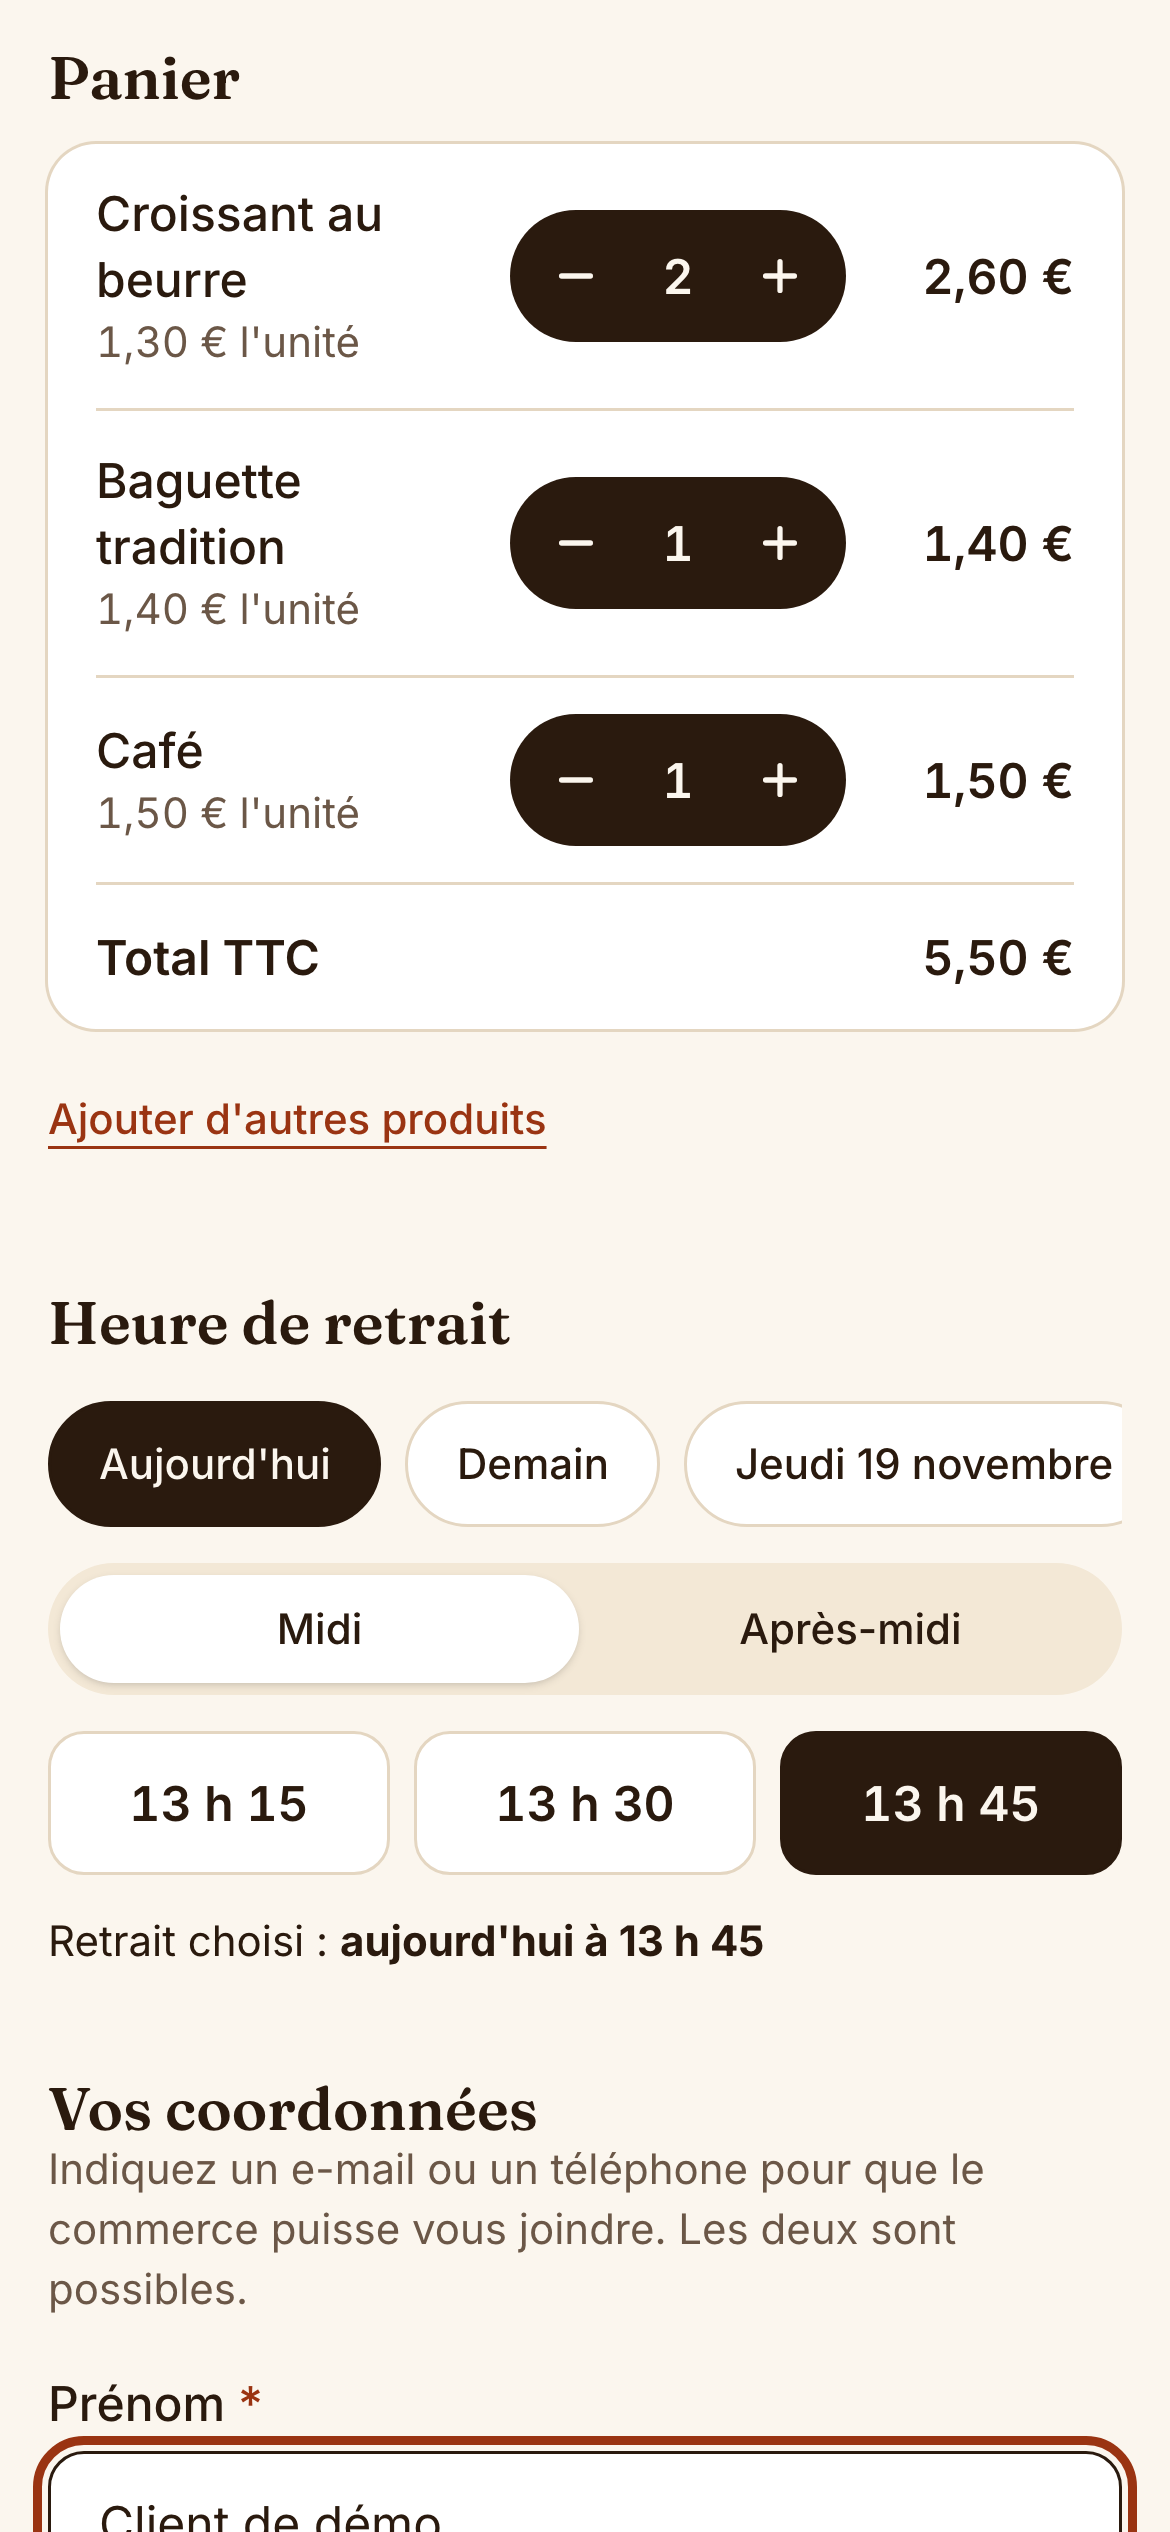
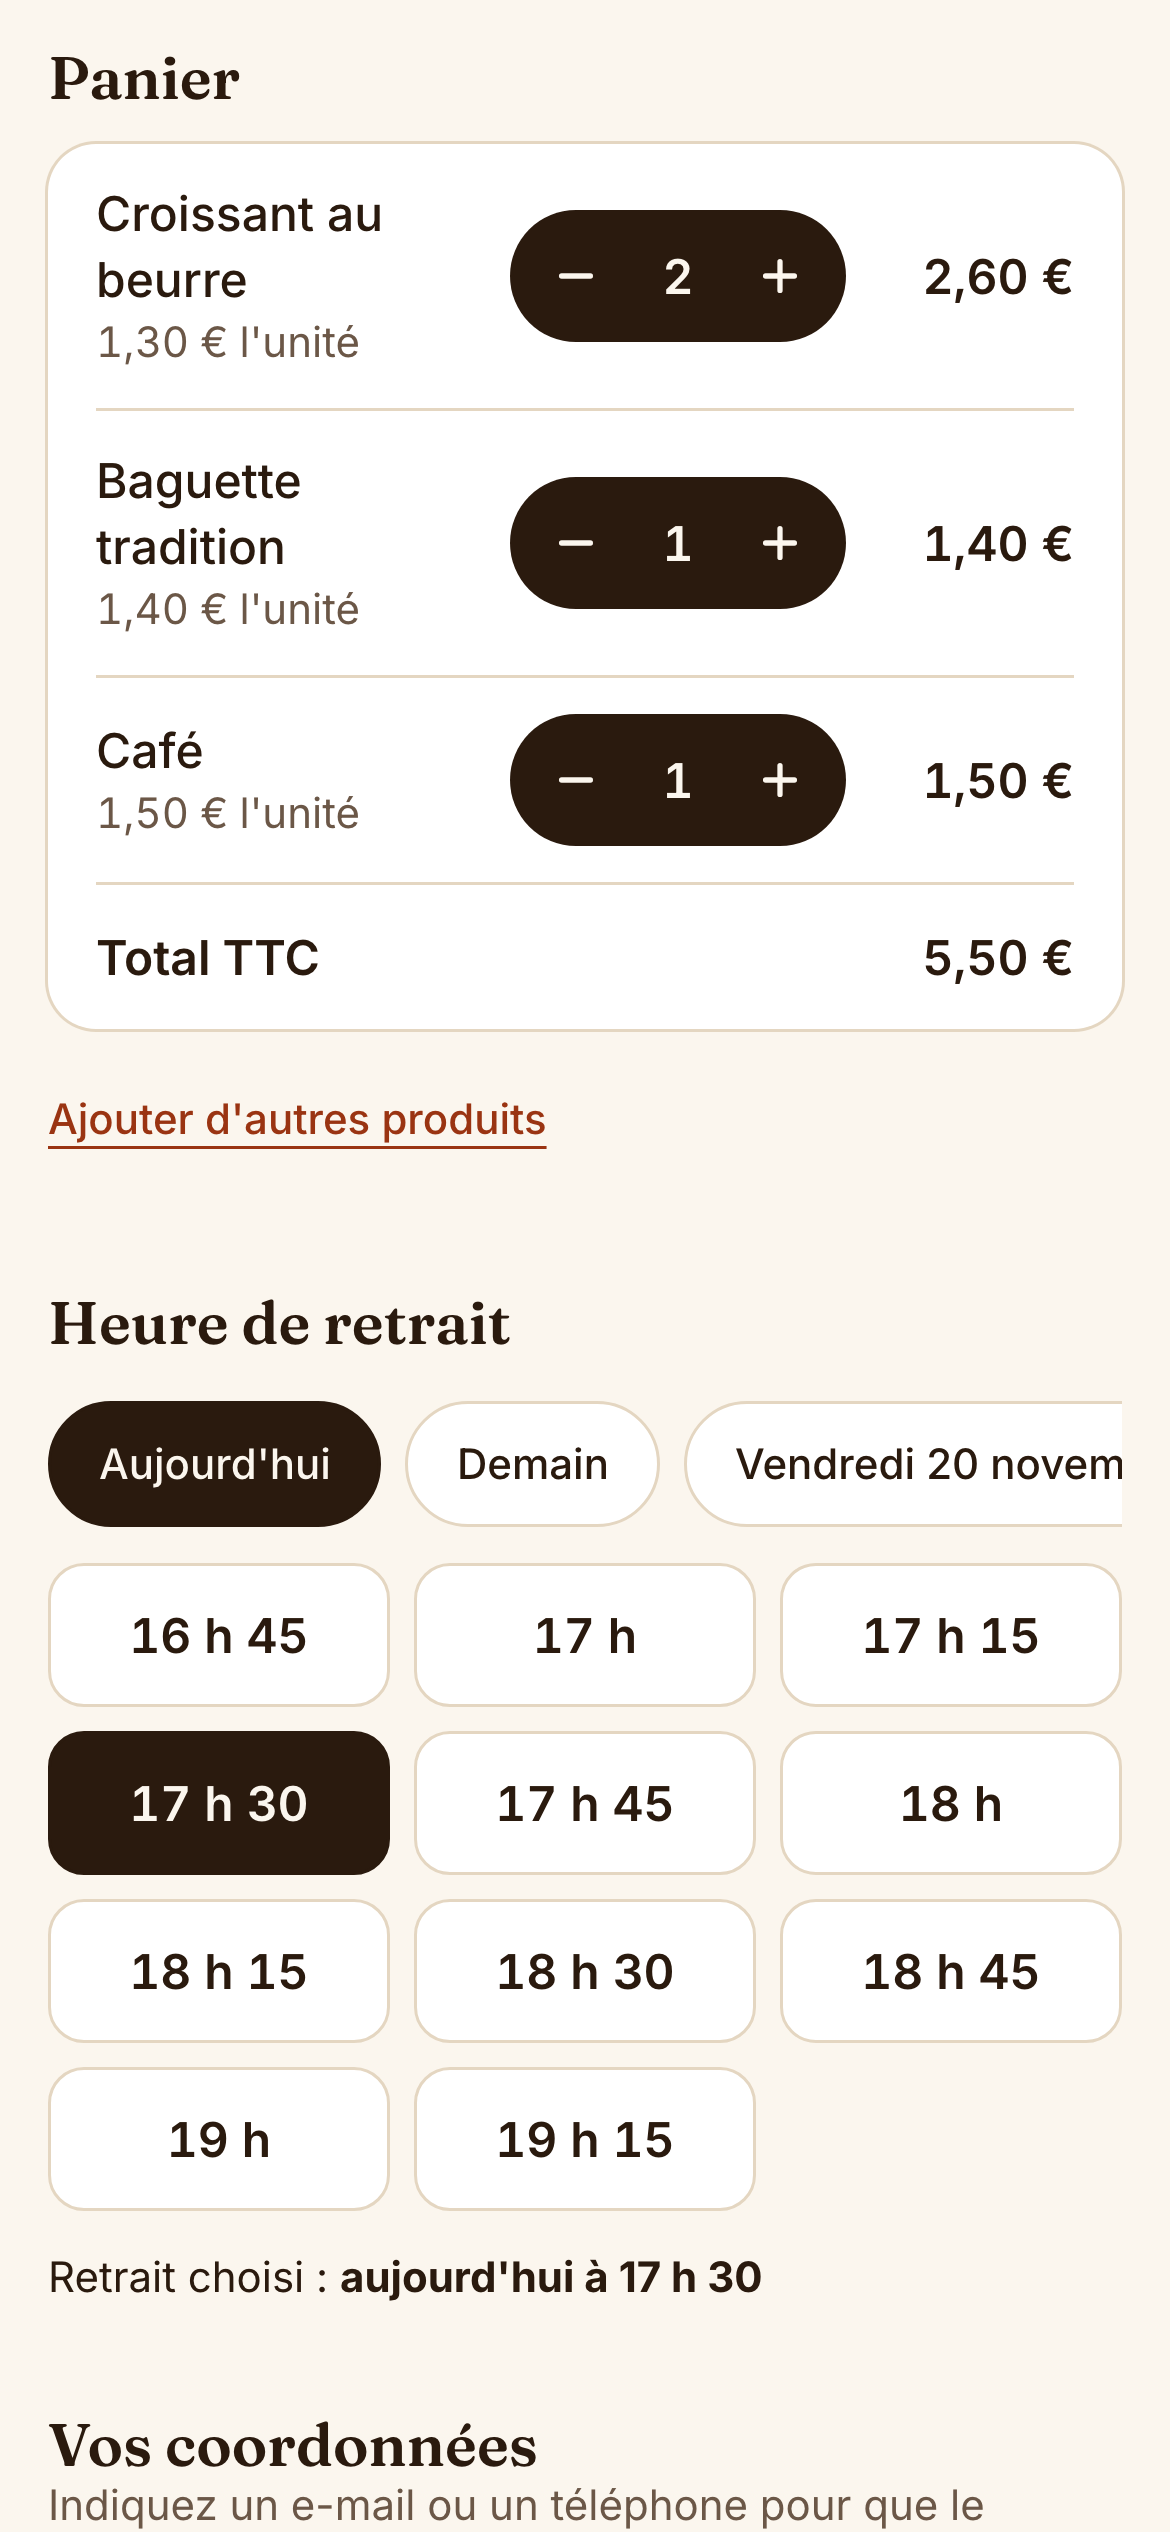
Ugo : fournées, anti-gaspi et notification dans la fiche projet
- Textes à jour (fournées, anti-gaspi, notification « commande prête »,
  protection contre les abus)
- Nouvelle capture de la page Fournées, captures refaites en ligne

Changed region(s): [[0.0308, 0.5616, 0.9846, 0.9048], [0.0308, 0.936, 0.9538, 1.0], [0.9538, 0.9672, 0.9846, 1.0]]

diff --git a/js/museum.js b/js/museum.js
@@ -273,8 +273,8 @@ const SECTIONS = {
       ugo: {
         kind: 'plateforme', label: 'Commande à emporter', frame: 'Projet personnel',
         need: 'Un boulanger ou un restaurateur veut que ses clients puissent commander à emporter depuis leur téléphone, avec une heure de retrait, sans l\'appeler.',
-        did: 'Conçu et développé seul : le menu en ligne, la commande avec choix de l\'heure de retrait, le suivi de commande, l\'espace commerçant, la lecture d\'une photo d\'ardoise pour créer le menu, une démo en direct et la mise en ligne.',
-        result: 'Le client commande depuis son téléphone, choisit un créneau encore libre, paie sur place et voit en direct quand sa commande est prête. Le commerçant reçoit les commandes en direct, les fait avancer d\'un appui et gère seul son menu, ses horaires et ses créneaux. Pour démarrer, il photographie son ardoise : les produits et les prix sont recopiés, il relit avant de publier. Chaque visiteur peut essayer sa propre boulangerie de démonstration, fictive, avec le téléphone du client et la tablette du commerçant côte à côte.',
+        did: 'Conçu et développé seul : le menu en ligne, la commande avec choix de l\'heure de retrait, le suivi de commande, l\'espace commerçant, la lecture d\'une photo d\'ardoise pour créer le menu, les fournées et l\'anti-gaspi, la notification « commande prête », une démo en direct et la mise en ligne.',
+        result: 'Le client commande depuis son téléphone, choisit un créneau encore libre, paie sur place et voit en direct quand sa commande est prête. Le commerçant reçoit les commandes en direct, les fait avancer d\'un appui et gère seul son menu, ses horaires et ses créneaux. Pour démarrer, il photographie son ardoise : les produits et les prix sont recopiés, il relit avant de publier. Il indique ses fournées : le client ne choisit qu\'une heure où le produit est sorti du four, et en fin de journée les invendus passent en anti-gaspi. Chaque visiteur peut essayer sa propre boulangerie de démonstration, fictive, avec le téléphone du client et la tablette du commerçant côte à côte.',
       },
       hearth: {
         kind: 'interne', label: 'Outil de gestion', frame: 'Projet personnel',
@@ -533,8 +533,8 @@ const SECTIONS = {
         pick: true,
         tech: ['Next.js', 'React', 'TypeScript', 'Tailwind CSS', 'PostgreSQL', 'Drizzle ORM', 'Zod', 'Neon', 'Cloudflare Workers', 'Workers AI', 'Vitest', 'Playwright'],
         mainTech: ['Next.js', 'TypeScript', 'PostgreSQL', 'Tailwind CSS'],
-        role: 'Projet personnel, réalisé seul : conception, interface, base de données, espace commerçant, commandes en direct, lecture d\'ardoise par IA, démo en direct, tests automatisés et mise en ligne.',
-        desc: 'Application web de menu en ligne et de commande à emporter pour les commerces de bouche (restaurant, boulangerie, snack), présentée avec une boulangerie fictive. Le client scanne un QR code ou ouvre un lien, consulte le menu (photos, prix, allergènes, produits épuisés), choisit son heure de retrait parmi les créneaux encore ouverts et paie sur place au retrait. Il reçoit un numéro court et une page de suivi qui affiche en direct quand sa commande est prête. Le commerçant reçoit les commandes sur un tableau mis à jour en direct, avec un signal sonore, et les fait passer de « Reçue » à « Récupérée ». Il gère seul son menu, ses horaires, ses jours de fermeture, son délai de préparation et le nombre de commandes par créneau, imprime une affiche avec QR code et consulte ses chiffres du jour et de la semaine. Pour créer son menu, il peut photographier son ardoise ou sa carte : un modèle de vision (Workers AI) en recopie les produits et les prix, et il relit et corrige tout avant l\'ajout. La démo en direct donne à chaque visiteur sa propre boulangerie fictive, sans inscription et effacée au bout de 24 heures : le téléphone du client et la tablette du commerçant s\'affichent côte à côte, et un QR code permet de commander depuis son propre téléphone.',
+        role: 'Projet personnel, réalisé seul : conception, interface, base de données, espace commerçant, commandes en direct, lecture d\'ardoise par IA, gestion des fournées, notifications, démo en direct, protection contre les abus, tests automatisés et mise en ligne.',
+        desc: 'Application web de menu en ligne et de commande à emporter pour les commerces de bouche (restaurant, boulangerie, snack), présentée avec une boulangerie fictive. Le client scanne un QR code ou ouvre un lien, consulte le menu (photos, prix, allergènes, produits épuisés), choisit son heure de retrait parmi les créneaux encore ouverts et paie sur place au retrait. Il reçoit un numéro court et une page de suivi qui affiche en direct quand sa commande est prête. Le commerçant reçoit les commandes sur un tableau mis à jour en direct, avec un signal sonore, et les fait passer de « Reçue » à « Récupérée ». Il gère seul son menu, ses horaires, ses jours de fermeture, son délai de préparation et le nombre de commandes par créneau, imprime une affiche avec QR code et consulte ses chiffres du jour et de la semaine. Pour créer son menu, il peut photographier son ardoise ou sa carte : un modèle de vision (Workers AI) en recopie les produits et les prix, et il relit et corrige tout avant l\'ajout. Pour chaque produit, il indique ses fournées (heure de sortie du four, quantité proposée en ligne) : le client ne voit que les heures de retrait où sa commande est possible, sans jamais prendre un produit déjà promis à une autre commande. En fin de journée, une remise anti-gaspi s\'applique d\'elle-même aux fournées du jour. Le client peut demander à être prévenu sur son téléphone quand sa commande est prête (notification Web Push, sans application ni SMS). Les créations de démo, commandes et connexions sont limitées par adresse IP. La démo en direct donne à chaque visiteur sa propre boulangerie fictive, sans inscription et effacée au bout de 24 heures : le téléphone du client et la tablette du commerçant s\'affichent côte à côte, et un QR code permet de commander depuis son propre téléphone.',
         links: [
           { label: 'Voir le projet', url: 'https://ugo.hitmind-pro.workers.dev/' },
         ],
@@ -543,8 +543,8 @@ const SECTIONS = {
           { file: 'ugo-menu', alt: 'Menu de la boulangerie de démo : photos, prix, allergènes et produit épuisé' },
           { file: 'ugo-demo', alt: 'Démo en direct : la commande passée côté client arrive sur la tablette du commerçant' },
           { file: 'ugo-ardoise', alt: 'Lecture d\'ardoise : les produits et les prix recopiés depuis la photo, à relire' },
+          { file: 'ugo-fournees', alt: 'Fournées et anti-gaspi : heures de sortie du four, quantités, remise de fin de journée' },
           { file: 'ugo-panier', alt: 'Panier et choix de l\'heure de retrait parmi les créneaux libres' },
-          { file: 'ugo-suivi', alt: 'Suivi de commande : numéro court et statut « En préparation »' },
           { file: 'ugo-commandes', alt: 'Tableau des commandes du commerçant, mis à jour en direct' },
         ],
         accent: '#ff9a3c',

diff --git a/realisations/ugo.html b/realisations/ugo.html
@@ -156,7 +156,7 @@
       "@id": "https://arphandrame.fr/realisations/ugo#work",
       "name": "Ugo",
       "genre": "Commande à emporter",
-      "description": "Un boulanger ou un restaurateur veut que ses clients puissent commander à emporter depuis leur téléphone, avec une heure de retrait, sans l'appeler. Le client commande depuis son téléphone, choisit un créneau encore libre, paie sur place et voit en direct quand sa commande est prête. Le commerçant reçoit les commandes en direct, les fait avancer d'un appui et gère seul son menu, ses horaires et ses créneaux. Pour démarrer, il photographie son ardoise : les produits et les prix sont recopiés, il relit avant de publier. Chaque visiteur peut essayer sa propre boulangerie de démonstration, fictive, avec le téléphone du client et la tablette du commerçant côte à côte.",
+      "description": "Un boulanger ou un restaurateur veut que ses clients puissent commander à emporter depuis leur téléphone, avec une heure de retrait, sans l'appeler. Le client commande depuis son téléphone, choisit un créneau encore libre, paie sur place et voit en direct quand sa commande est prête. Le commerçant reçoit les commandes en direct, les fait avancer d'un appui et gère seul son menu, ses horaires et ses créneaux. Pour démarrer, il photographie son ardoise : les produits et les prix sont recopiés, il relit avant de publier. Il indique ses fournées : le client ne choisit qu'une heure où le produit est sorti du four, et en fin de journée les invendus passent en anti-gaspi. Chaque visiteur peut essayer sa propre boulangerie de démonstration, fictive, avec le téléphone du client et la tablette du commerçant côte à côte.",
       "creator": {
         "@id": "https://arphandrame.fr/#person"
       },
@@ -239,14 +239,14 @@
       </div>
       <div class="wrap proj__grid">
         <section class="proj__s"><h2>Le besoin</h2><p>Un boulanger ou un restaurateur veut que ses clients puissent commander à emporter depuis leur téléphone, avec une heure de retrait, sans l'appeler.</p></section>
-        <section class="proj__s"><h2>Ce que j’ai fait</h2><p>Conçu et développé seul : le menu en ligne, la commande avec choix de l'heure de retrait, le suivi de commande, l'espace commerçant, la lecture d'une photo d'ardoise pour créer le menu, une démo en direct et la mise en ligne.</p></section>
-        <section class="proj__s"><h2>Ce que ça permet</h2><p>Le client commande depuis son téléphone, choisit un créneau encore libre, paie sur place et voit en direct quand sa commande est prête. Le commerçant reçoit les commandes en direct, les fait avancer d'un appui et gère seul son menu, ses horaires et ses créneaux. Pour démarrer, il photographie son ardoise : les produits et les prix sont recopiés, il relit avant de publier. Chaque visiteur peut essayer sa propre boulangerie de démonstration, fictive, avec le téléphone du client et la tablette du commerçant côte à côte.</p></section>
+        <section class="proj__s"><h2>Ce que j’ai fait</h2><p>Conçu et développé seul : le menu en ligne, la commande avec choix de l'heure de retrait, le suivi de commande, l'espace commerçant, la lecture d'une photo d'ardoise pour créer le menu, les fournées et l'anti-gaspi, la notification « commande prête », une démo en direct et la mise en ligne.</p></section>
+        <section class="proj__s"><h2>Ce que ça permet</h2><p>Le client commande depuis son téléphone, choisit un créneau encore libre, paie sur place et voit en direct quand sa commande est prête. Le commerçant reçoit les commandes en direct, les fait avancer d'un appui et gère seul son menu, ses horaires et ses créneaux. Pour démarrer, il photographie son ardoise : les produits et les prix sont recopiés, il relit avant de publier. Il indique ses fournées : le client ne choisit qu'une heure où le produit est sorti du four, et en fin de journée les invendus passent en anti-gaspi. Chaque visiteur peut essayer sa propre boulangerie de démonstration, fictive, avec le téléphone du client et la tablette du commerçant côte à côte.</p></section>
       </div>
       <div class="wrap proj__more">
         <h2 class="block__t">Autres écrans</h2>
         <ul class="shots shots--phone">
+          <li><figure class="mock mock--phone"><img src="/assets/img/projets/ugo-fournees.webp" alt="" width="600" height="1299" loading="lazy" decoding="async"></figure><figcaption>Fournées et anti-gaspi : heures de sortie du four, quantités, remise de fin de journée</figcaption></li>
           <li><figure class="mock mock--phone"><img src="/assets/img/projets/ugo-panier.webp" alt="" width="600" height="1299" loading="lazy" decoding="async"></figure><figcaption>Panier et choix de l'heure de retrait parmi les créneaux libres</figcaption></li>
-          <li><figure class="mock mock--phone"><img src="/assets/img/projets/ugo-suivi.webp" alt="" width="600" height="1299" loading="lazy" decoding="async"></figure><figcaption>Suivi de commande : numéro court et statut « En préparation »</figcaption></li>
           <li><figure class="mock mock--phone"><img src="/assets/img/projets/ugo-commandes.webp" alt="" width="600" height="1299" loading="lazy" decoding="async"></figure><figcaption>Tableau des commandes du commerçant, mis à jour en direct</figcaption></li>
         </ul>
       </div>
